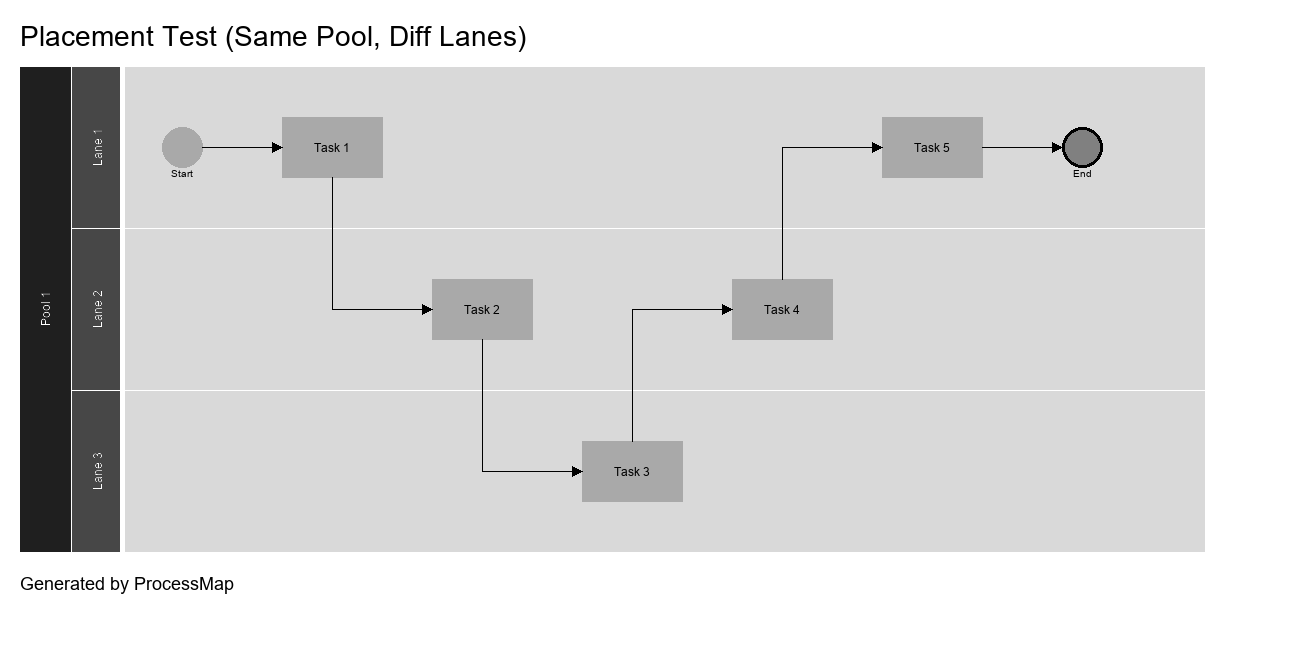
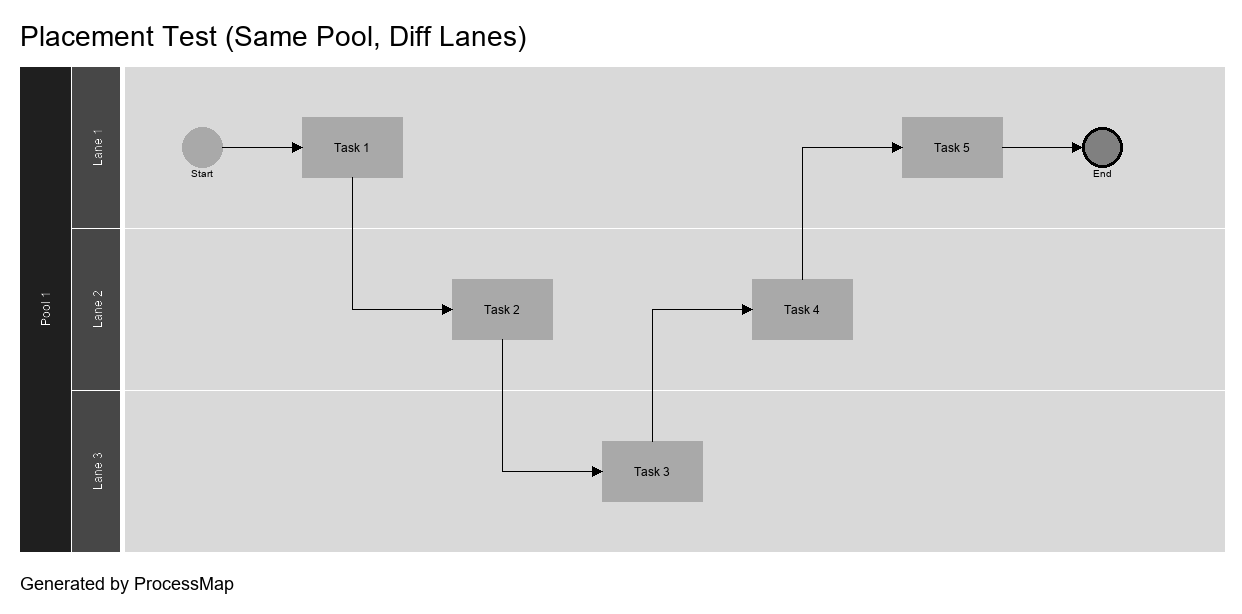
Updated test cases

diff --git a/src/test_processmapper.py b/src/test_processmapper.py
@@ -99,10 +99,11 @@ def test_case4():
 
 
 def test_case5():
-    with ProcessMap("Sample Test Process", 1100, 700) as my_process_map:
+    with ProcessMap("Sample Test Process") as my_process_map:
         with my_process_map.add_lane("End User") as lane1:
             start = lane1.add_element("Start", EventType.START)
             enter_keyword = lane1.add_element("Enter Keyword", ActivityType.TASK)
+
         with my_process_map.add_pool("System Search") as pool1:
             with pool1.add_lane("Database System") as lane2:
                 login = lane2.add_element("Login", ActivityType.TASK)
@@ -115,17 +116,18 @@ def test_case5():
             with pool1.add_lane("Log System") as lane3:
                 log_error = lane3.add_element("Log Error", ActivityType.TASK)
 
-        start.connect(login).connect(enter_keyword).connect(search_records).connect(
-            result_found
-        ).connect(display_result).connect(logout).connect(end)
+        start.connect(login).connect(enter_keyword).connect(search_records)
+        search_records.connect(result_found).connect(display_result)
+        display_result.connect(logout).connect(end)
         result_found.connect(log_error).connect(display_result)
 
+        my_process_map.set_footer("Generated by ProcessMap")
         my_process_map.draw()
         my_process_map.save("my_process_map_test_case05.png")
 
 
 def test_case6():
-    with ProcessMap("Placement Test (Same Lane)", 1100, 300) as my_process_map:
+    with ProcessMap("Placement Test (Same Lane)") as my_process_map:
         with my_process_map.add_lane("End User") as lane1:
             start = lane1.add_element("Start", EventType.START)
             task1 = lane1.add_element("Task 1", ActivityType.TASK)
@@ -141,9 +143,7 @@ def test_case6():
 
 
 def test_case7():
-    with ProcessMap(
-        "Placement Test (Same Pool, Diff Lanes)", 1300, 650
-    ) as my_process_map:
+    with ProcessMap("Placement Test (Same Pool, Diff Lanes)") as my_process_map:
         with my_process_map.add_pool("Pool 1") as pool1:
             with pool1.add_lane("Lane 1") as lane1:
                 start = lane1.add_element("Start", EventType.START)
@@ -166,5 +166,6 @@ def test_case7():
 
 
 if __name__ == "__main__":
+    test_case5()
     test_case6()
     test_case7()
